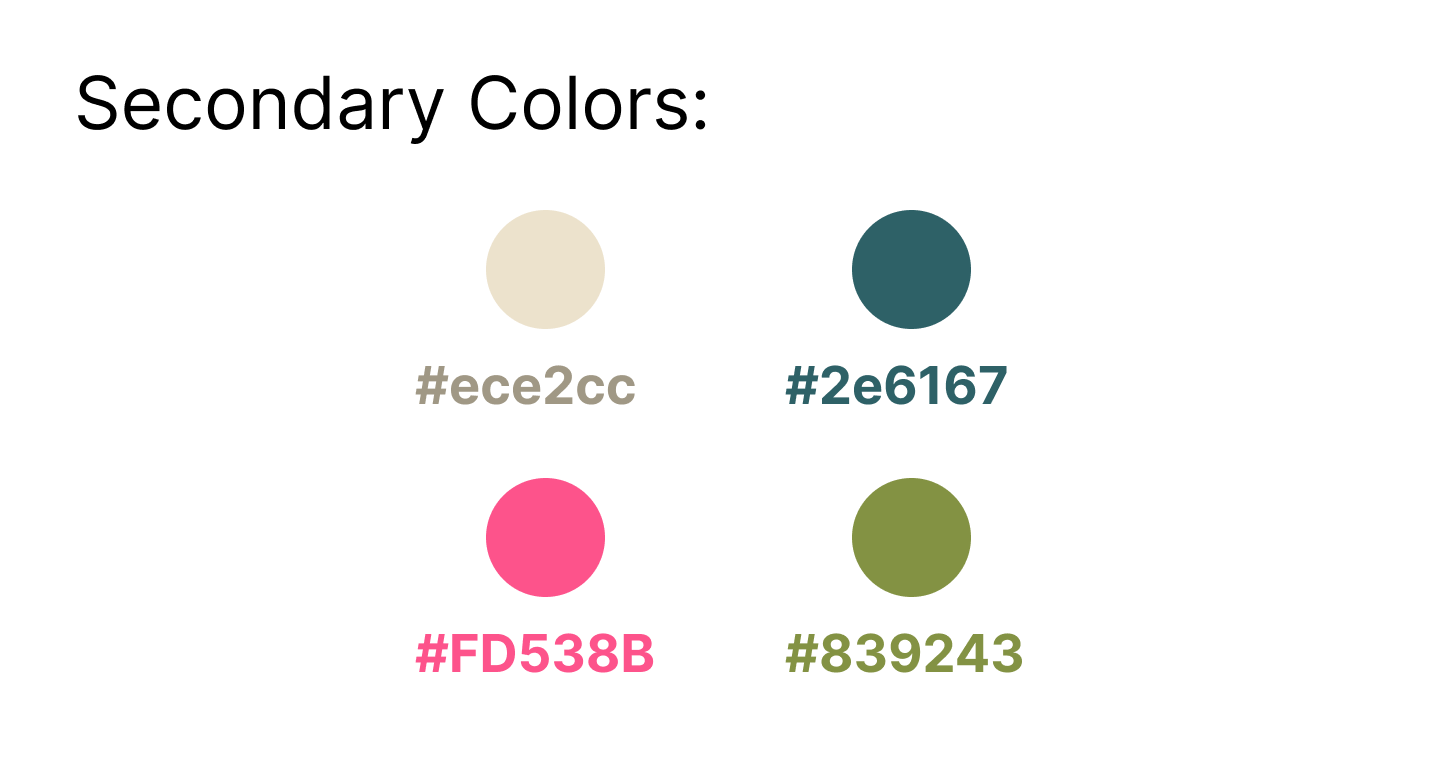
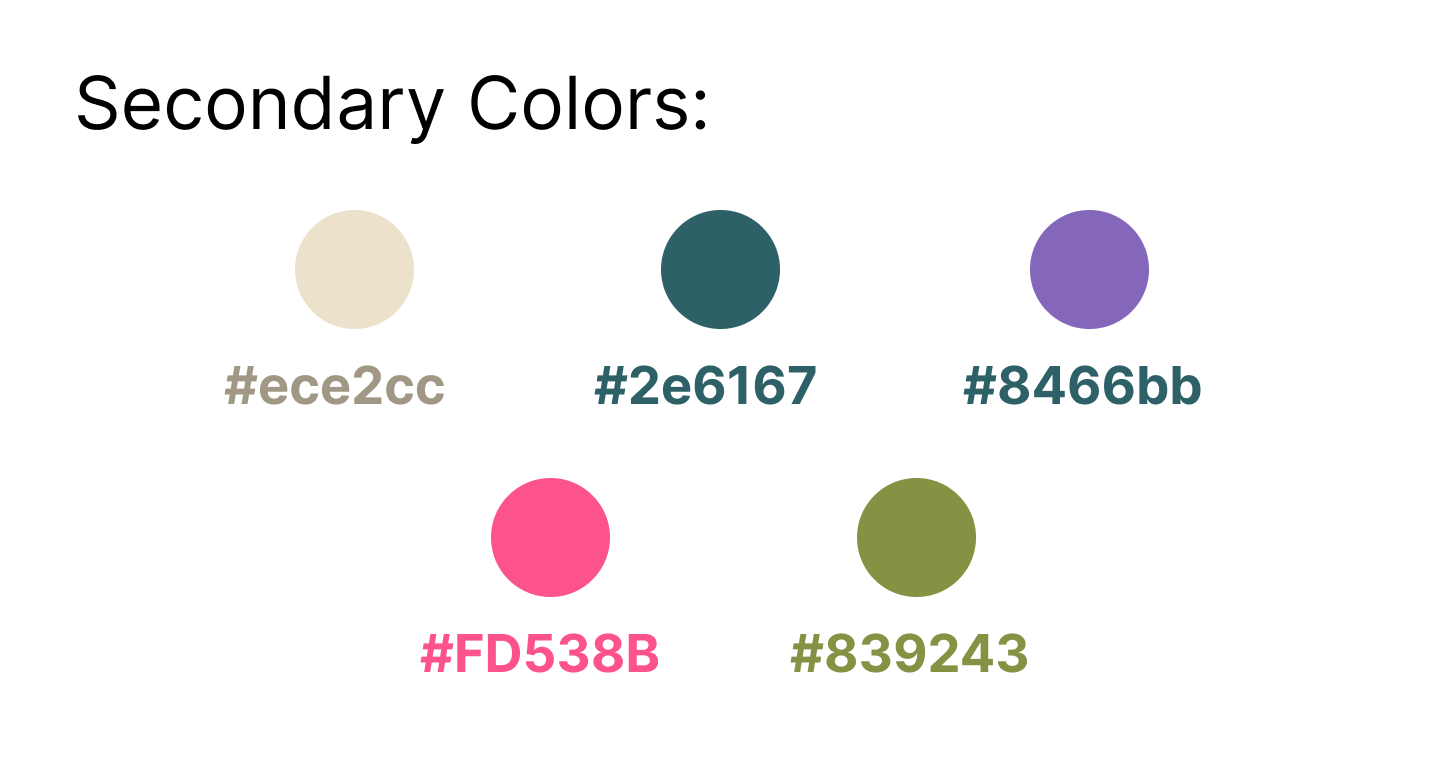
feat: Final Readme changes

diff --git a/README.md b/README.md
@@ -91,16 +91,23 @@ Las funcionalidades minimas de la pagina, incluyen un carro de compras, perfiles
 
 ## Vistas desarolladas
 
-<img src="docs/vista3.png" alt="Landing" width="700"/>
+<img src="docs/0.png" alt="Vista 0" width="700"/>
+<img src="docs/1.png" alt="Vista 1" width="700"/>
+<img src="docs/2.png" alt="Vista 2" width="700"/>
+<img src="docs/3.png" alt="Vista 3" width="700"/>
+<img src="docs/4.png" alt="Vista 4" width="700"/>
+<img src="docs/5.png" alt="Vista 5" width="700"/>
+<img src="docs/6.png" alt="Vista 6" width="700"/>
+<img src="docs/7.png" alt="Vista 7" width="700"/>
+<img src="docs/8.png" alt="Vista 8" width="700"/>
+<img src="docs/9.png" alt="Vista 9" width="700"/>
+<img src="docs/10.png" alt="Vista 10" width="700"/>
+<img src="docs/11.png" alt="Vista 11" width="700"/>
 <img src="docs/vista1.png" alt="Landing2" width="700"/>
 <img src="docs/vista2.png" alt="AboutUs" width="700"/>
-<img src="docs/vista7.png" alt="AboutUs2" width="700"/>
-<img src="docs/vista8.png" alt="AboutUs2" width="700"/>
-<img src="docs/vista4.png" alt="AboutUs2" width="700"/>
 <img src="docs/vista5.png" alt="AboutUs2" width="700"/>
 <img src="docs/vista6.png" alt="AboutUs2" width="700"/>
-
-
+<img src="docs/12.png" alt="Vista 12" width="700"/>
 
 ---
 # Historias de Usuario por Rol
